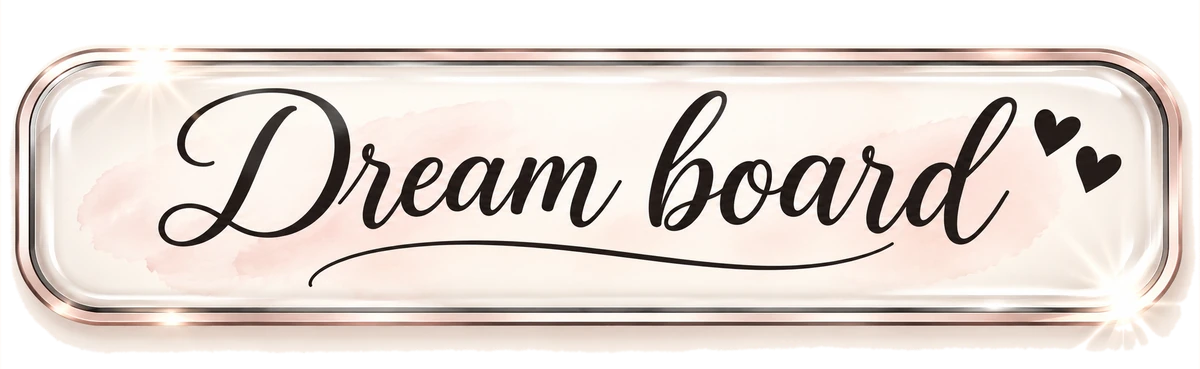
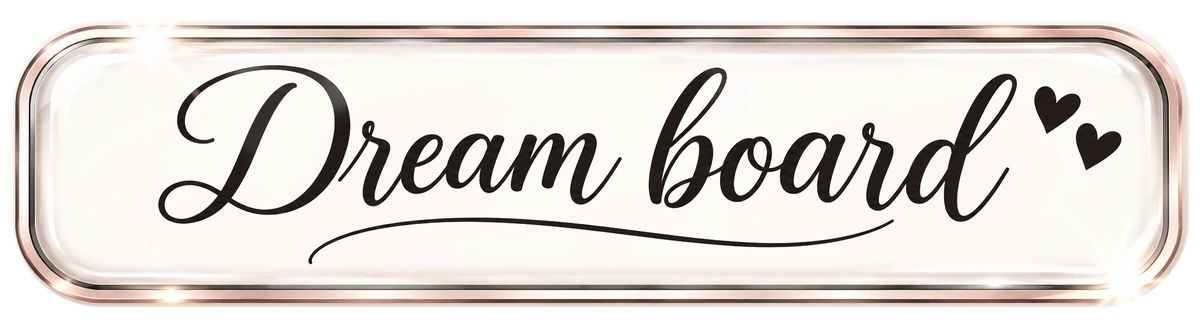
Add files via upload

diff --git a/sw.js b/sw.js
@@ -1,6 +1,6 @@
 /* Service worker - Mon agenda
    Pour publier une mise à jour : change le numéro de VERSION ci-dessous. */
-const VERSION = 'v55';
+const VERSION = 'v56';
 const CACHE = 'agenda-' + VERSION;
 const FONTS = 'agenda-fonts';
 const SHELL = [

diff --git a/AGENDA-MAP.md b/AGENDA-MAP.md
@@ -5,7 +5,7 @@ Attach this file to every modification request. Claude tells me which files to s
 
 ## Rules for every modification (Claude must follow)
 
-1. **Always ask me for `sw.js`**, every time, even for a tiny change. Return it with the version number raised (`const VERSION = 'v55'` -> `'v56'`, etc.), otherwise the phone keeps showing the old version.
+1. **Always ask me for `sw.js`**, every time, even for a tiny change. Return it with the version number raised (`const VERSION = 'v56'` -> `'v57'`, etc.), otherwise the phone keeps showing the old version.
 2. If a file is **added, renamed or deleted**, add or remove it in the `SHELL` list of `sw.js`.
 3. Use the "Screen -> files to ask for" table to decide which file(s) to request, and **only edit those**. Never guess the content of a file I have not sent.
 4. Return only the changed files, plus the updated `sw.js` and this map (with a new line in the change log).
@@ -140,3 +140,4 @@ To change an image: same format, same file name, upload to replace it, then rais
 - Step 21: v53. Dream board banner recolored: the pink wash inside the glass is now white like the Photos banner (frame and text unchanged), and the jagged cream fringe around the frame is removed (`img-dream-banner.webp` replaced, 1200 px, transparent). Tabs bar (all tabs) made whiter and more 3D: pearl white fill, clear glass gloss, white reflection band, thicker bevel and drop shadow, light copper border instead of pink, charcoal glass for the active tab. Only the block "v53 : onglets" of `style-late.css` changed (it replaces the v49 block). `sw.js` at v53.
 - Step 22: v54. Tab "Dream board": text made smaller (8.5 px, less letter spacing) so the two words fit comfortably in the tab (`style-late.css`, last line, selector `#tabs button:nth-child(2)`: it targets the 2nd tab, so change it if the tab order changes). `sw.js` at v54.
 - Step 23: v55. Dream board page: the small "Bucket list ›" link is removed; a tap on the banner `img-dream-banner.webp` (class `ptbl`, `onclick=blOpen()`) now opens the bucket list. The 2026 / 2027 chips (`.vby button`) use the same white 3D glass style as the tabs (the selectors `#tabs button` in the v53 block of `style-late.css` now also list `.vby button`, plus a small "v55" block for size). Files: `app-photos-tab.js` (end block), `style-late.css`. `sw.js` at v55.
+- Step 24: v56. No code change. The white version of `img-dream-banner.webp` (step 21) had not reached the phone (the screenshot still showed the pink one), so the image is sent again and `sw.js` goes to v56 to force the phone to download it (images are served from the cache first). `sw.js` at v56.
